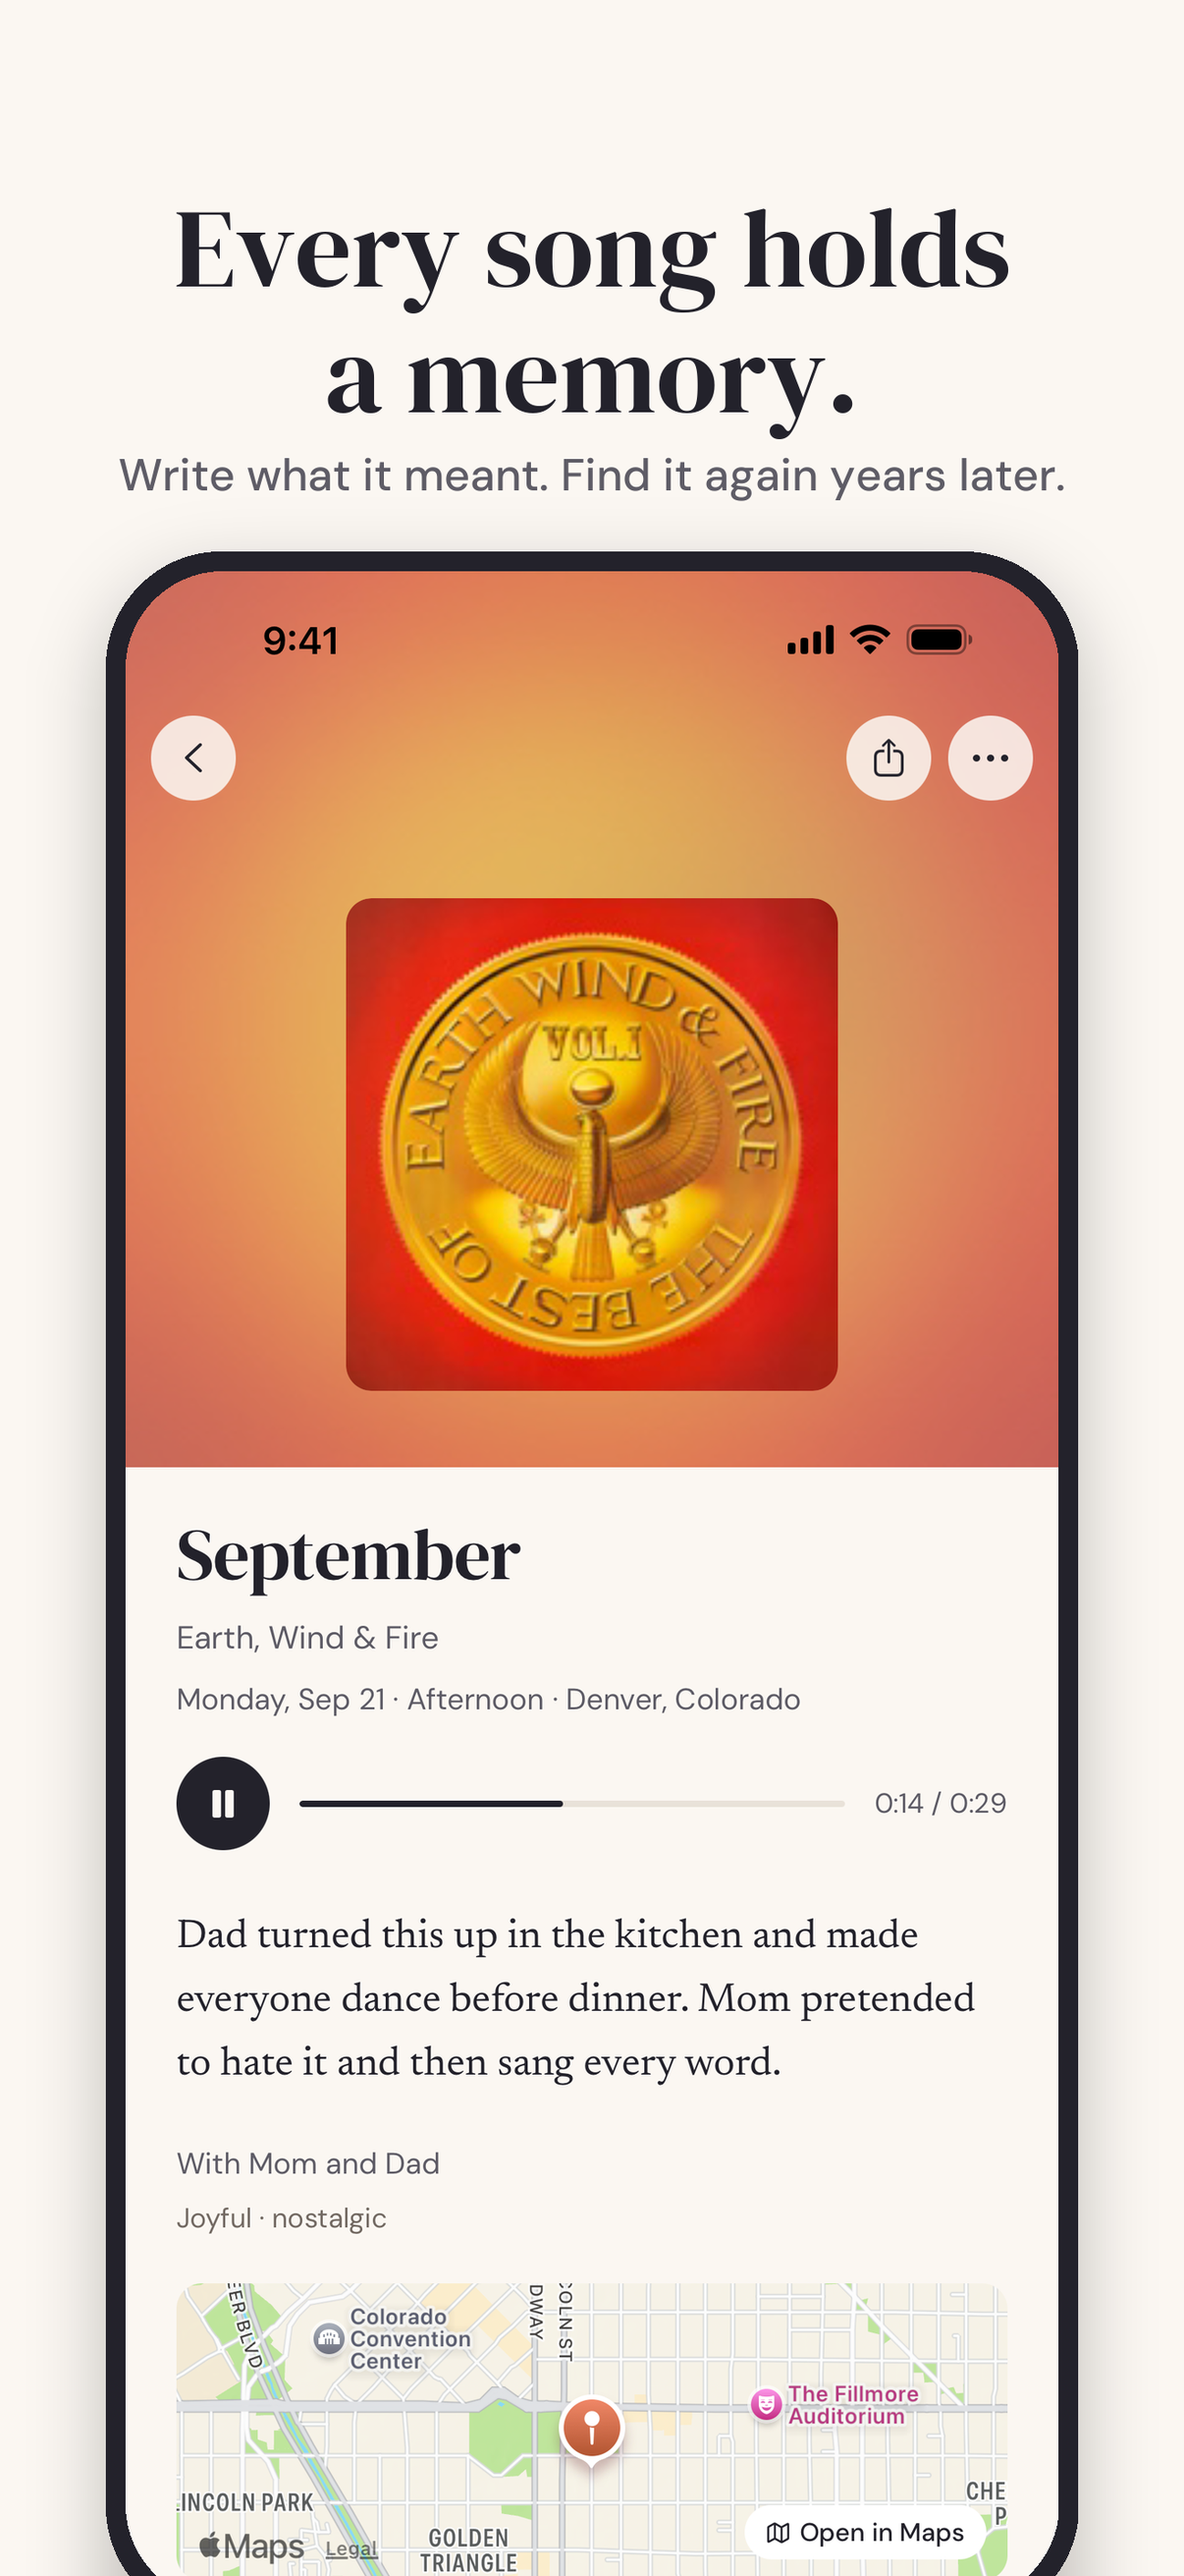
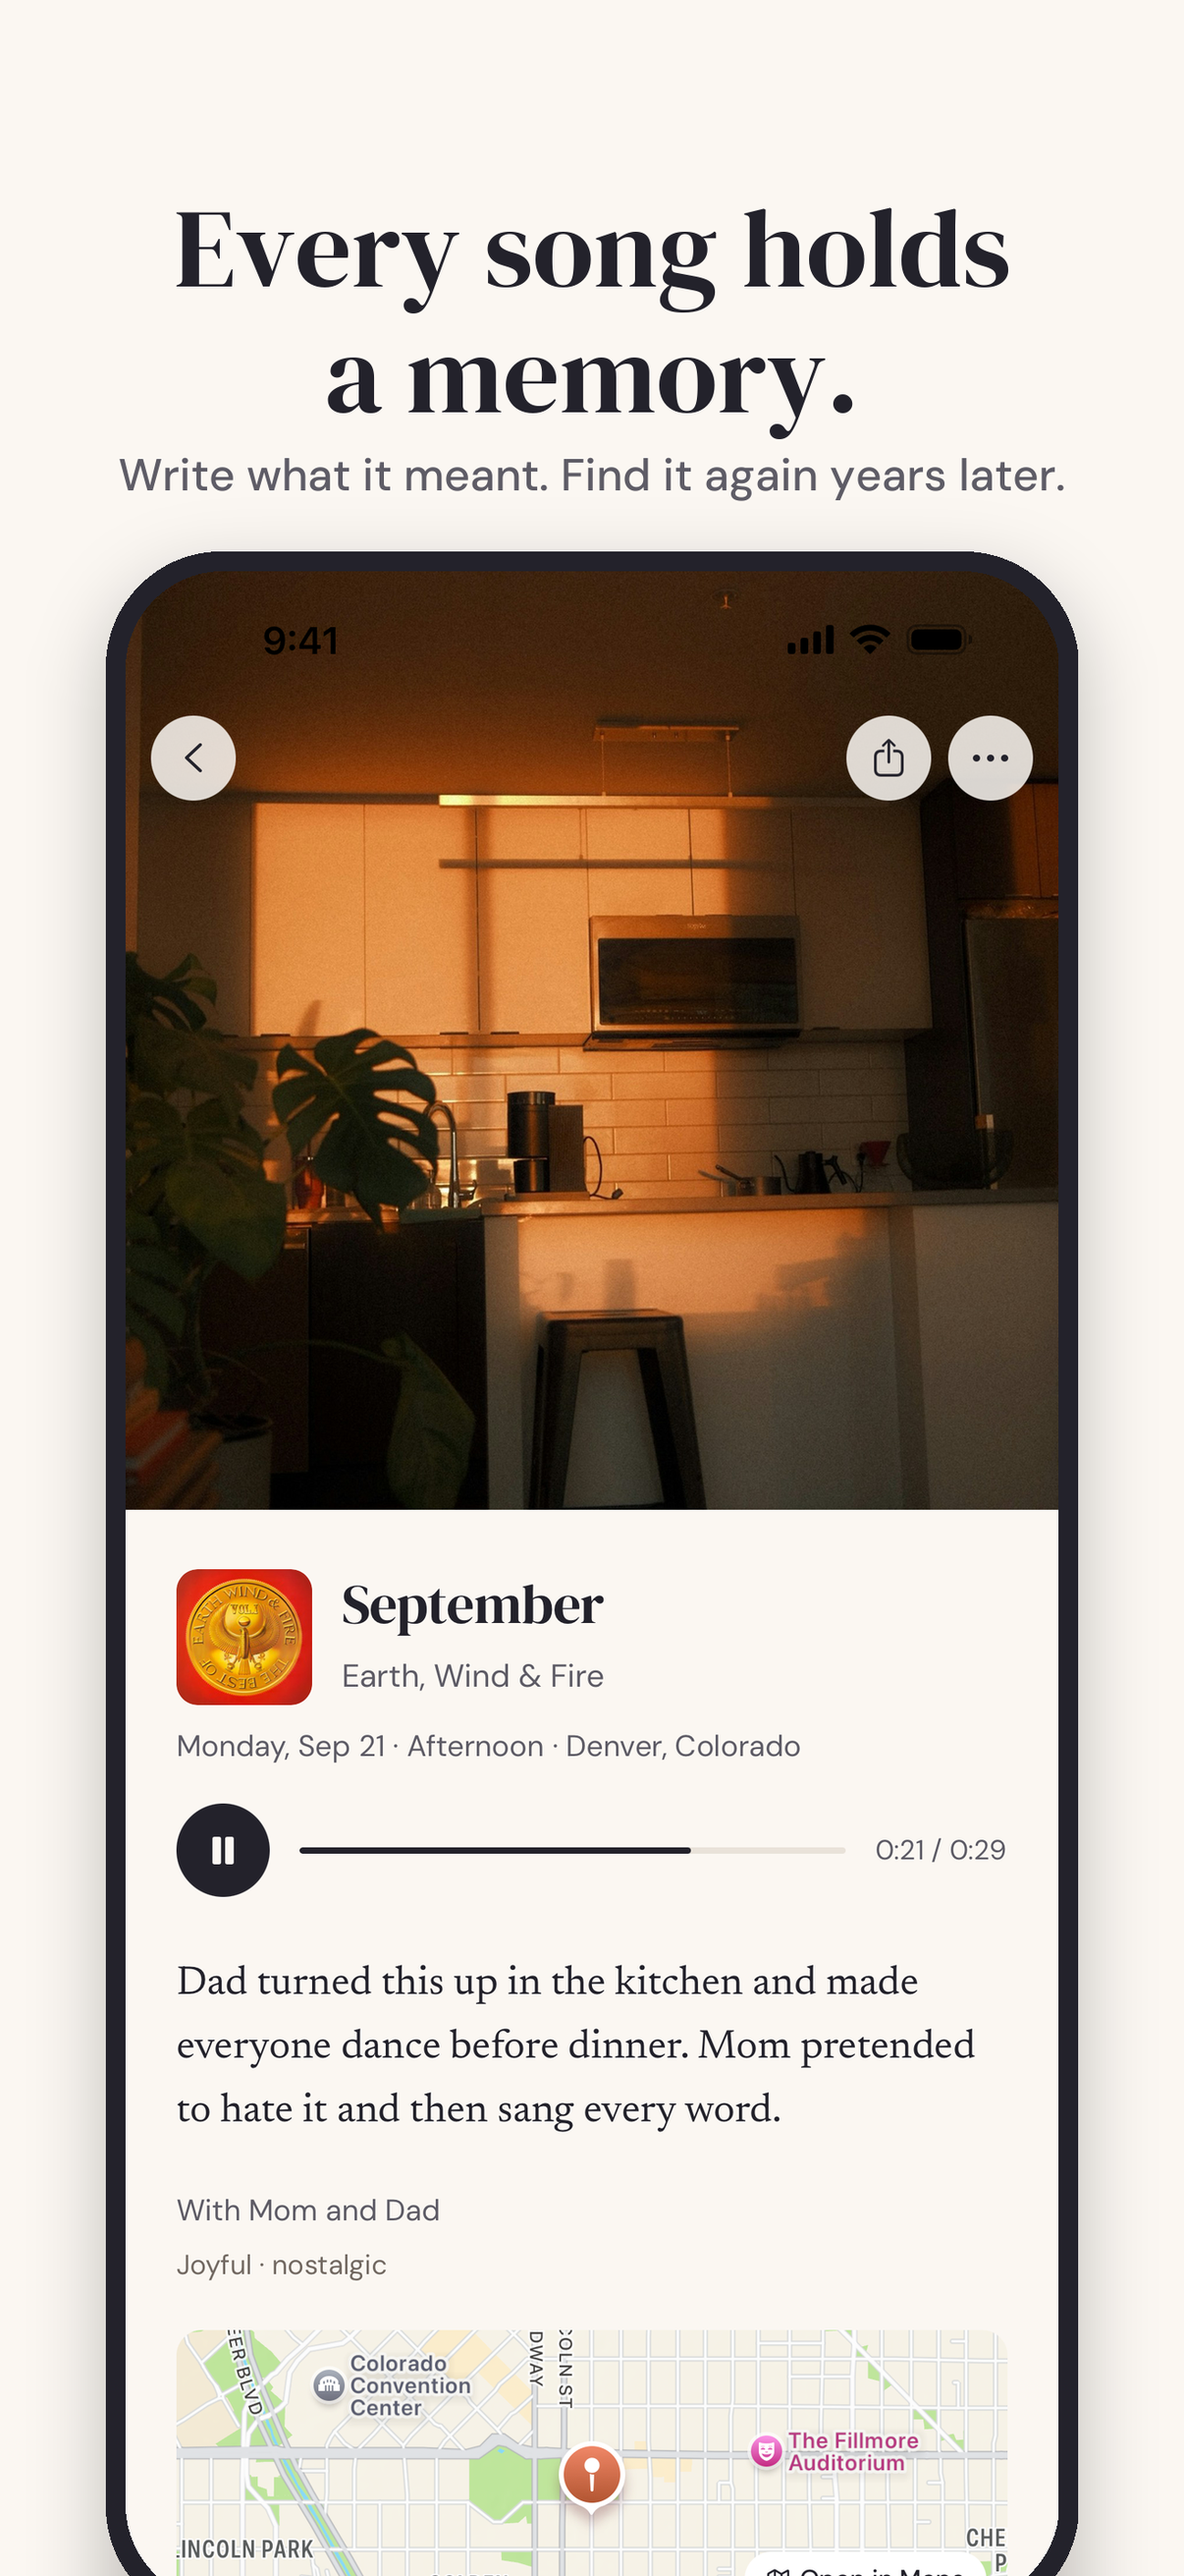
docs(app-store): 1.4.1 screenshots with photos
Five demo moments now carry free Unsplash-licensed photos that match their
words (night drive, coffee, kitchen, dance floor, lake). Journal, entry,
Hold +, Rediscover and the dark entry are recaptured with them; entry and
dark entry are framed from fresh captures again instead of reused.

diff --git a/scripts/frame-screenshots.py b/scripts/frame-screenshots.py
@@ -30,9 +30,7 @@ DARK = {"bg": "#0E0B0A", "ink": "#F5F0EB", "soft": "#ABA39E", "bezel": "#3A3330"
 # (raw file, output name, headline, subline, palette, mode)
 FRAMES = [
     ("01-journal.png", "1-journal", "Your life, one song\nat a time.", "A journal for the songs that mark your days.", LIGHT, "phone"),
-    # Unchanged since 1.4.0; their raw captures weren't kept, so the framed
-    # image is reused as is ("existing").
-    ("docs/app-store/screenshots/2-entry.png", "2-entry", None, None, LIGHT, "existing"),
+    ("02-entry.png", "2-entry", "Every song holds\na memory.", "Write what it meant. Find it again years later.", LIGHT, "phone"),
     ("07-start-from.png", "3-start-from", "Hold + for more\nways to start.", "Last week, From before, or what's playing now.", LIGHT, "phone"),
     ("04-capture.png", "4-capture", "Capture it in\ntwo taps.", "Song first. Write a line, pages, or nothing.", LIGHT, "phone"),
     ("docs/app-store/screenshots/5-widget.png", "5-widget", None, None, LIGHT, "existing"),
@@ -40,7 +38,7 @@ FRAMES = [
     # headline names what the screen shows: search and browse.
     ("03-rediscover.png", "6-rediscover", "Find it again,\nyears later.", "Search what you wrote, or browse by mood.", LIGHT, "phone"),
     ("docs/app-store/screenshots/7-year.png", "7-year", None, None, DARK, "existing"),
-    ("docs/app-store/screenshots/8-dark.png", "8-dark", None, None, DARK, "existing"),
+    ("06-dark-entry.png", "8-dark", "Made for\nlate nights.", "A quiet place to read what you wrote.", DARK, "phone"),
     # 1.4.1: Insights, from You's preview (covers carry the color).
     ("09b-you.png", "9-insights", "What your journal\nsays about you.", "The artists, people and moods that run through it.", LIGHT, "phone"),
 ]
